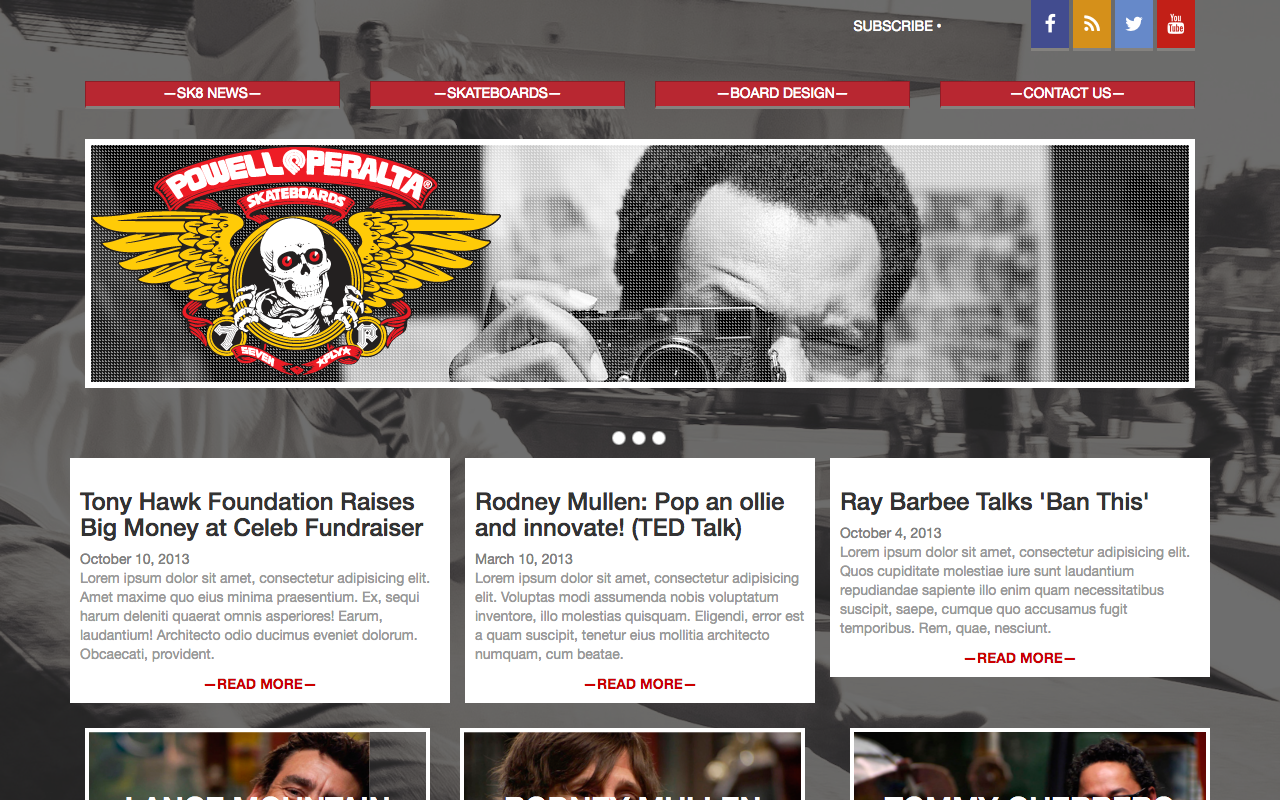
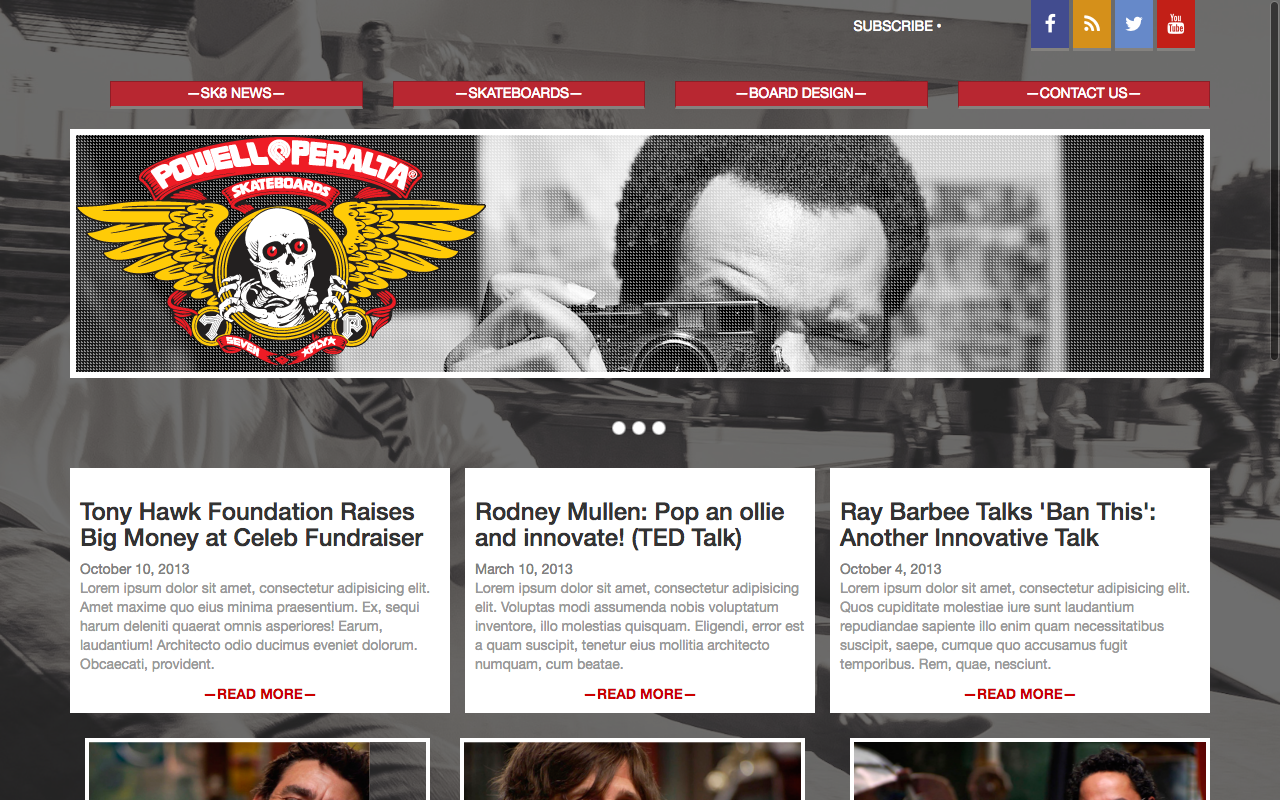
made media query adjustment

diff --git a/app/styles/app.scss b/app/styles/app.scss
@@ -67,9 +67,14 @@ button {
 }
 // robertcable heading
 .site-heading{
-  height: 60vh;
-  background: url('../images/skyline3.jpg');
+  height: auto;
+  background: url('../images/skyline3.jpg') no-repeat;
   background-size: cover;
+  display: table;
+  background-position: top center;
+  margin: 0;
+  padding: 0;
+  width: 100%;
 }
 .first-name{
   font-family: 'Cinzel', serif;
@@ -80,6 +85,40 @@ button {
 }
 .job-title{
   font-family: 'Quicksand', sans-serif;
+}
+@media (max-width: 768px){
+  .site-heading{
+    background: gray;
+    text-align: center;
+    padding: 0;
+    height: 60vh;
+    width: 100%;
+    background: url('../images/skyline3.jpg') no-repeat;
+
+    .first-name{
+      font-size: 54px;
+    }
+  }
+
+}
+@media (max-width: 1200px){
+  .site-heading{
+    background: gray;
+    text-align: center;
+    padding: 0;
+    height: 60vh;
+    background: rgba(0,0,0,0.4);
+    width: 100%;
+    background: url('../images/skyline3.jpg') no-repeat;
+
+    .first-name{
+      font-size: 54px;
+    }
+    .job-title{
+      color: white;
+    }
+  }
+
 }
 // .img-back{
 //   background: url('../images/seascape.jpg');
@@ -303,6 +342,8 @@ button {
 
 @media (min-width: 320px) and (max-width: 568px){
 
+
+
 #menu ul {
  display: none;
 }
@@ -311,13 +352,14 @@ button {
 
 @media (min-width: 568px){
 
+.site-heading{
+  height: 60vh;
+}
+.job-title{
+  font-size: 50px;
+}
 #menu select, #menu button{
  display: none;
 }
 
-}
-.site-heading{
-  h1{
-  display: inline-grid;
-  }
 }

diff --git a/app/index.html b/app/index.html
@@ -12,6 +12,10 @@
   </head>
   <body>
 
+
+
+
+
    <div class="container-fluid">
     <div class="menu-container text-xs-center">
      <div id="menu">
@@ -26,8 +30,8 @@
  </div>
 
       <div class="site-heading jumbotron jumbotron-fluid row">
-   <div class="container col-sm-12 text-sm-center p-t-2">
-     <h1 class="first-name col-sm-12 display-3">robert<span class="last-name">cable</span>.me</h1>
+   <div class="container text-sm-center p-t-2">
+     <h1 class="first-name display-3">robert<span class="last-name">cable</span>.me</h1>
      <p class="job-title lead">Front End Web Developer.</p>
    </div>
  </div>
@@ -229,6 +233,8 @@
    <script src="https://cdnjs.cloudflare.com/ajax/libs/tether/1.2.0/js/tether.min.js" integrity="sha384-Plbmg8JY28KFelvJVai01l8WyZzrYWG825m+cZ0eDDS1f7d/js6ikvy1+X+guPIB" crossorigin="anonymous"></script>
    <script src="https://maxcdn.bootstrapcdn.com/bootstrap/4.0.0-alpha.3/js/bootstrap.min.js" integrity="sha384-ux8v3A6CPtOTqOzMKiuo3d/DomGaaClxFYdCu2HPMBEkf6x2xiDyJ7gkXU0MWwaD" crossorigin="anonymous"></script>
    <script src="https://use.fontawesome.com/b019a3fc3f.js"></script>
-    <script src="js/bundle.js"></script>
+   <script src="js/bundle.js"></script>
+
+
   </body>
 </html>
